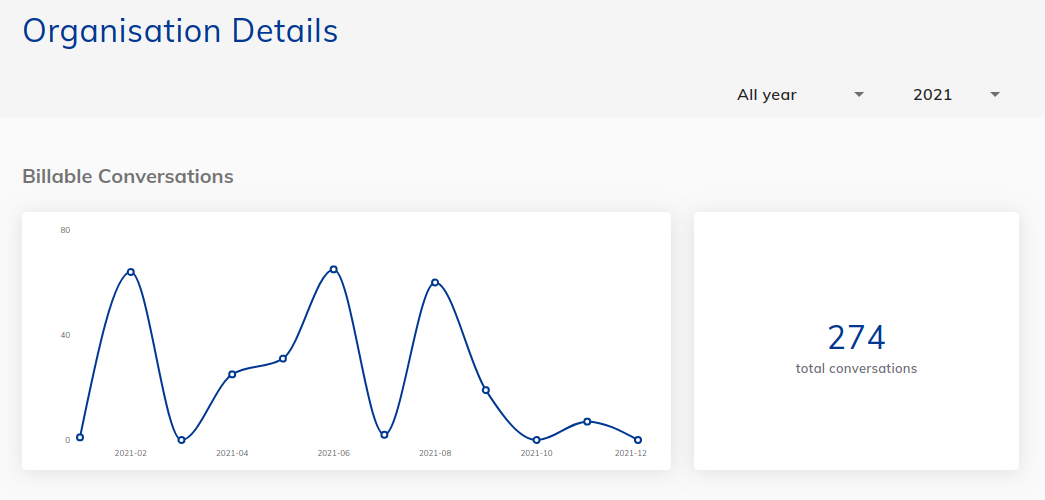
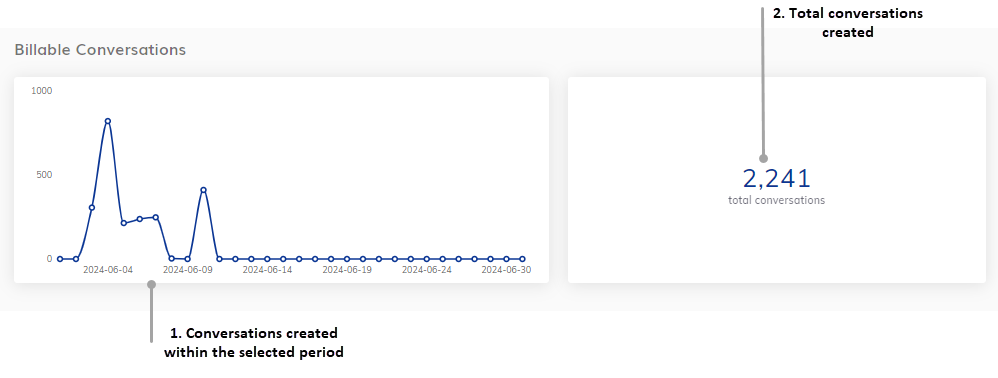
polishing + added a redirect

diff --git a/docs/ai/empower/knowledge-ai/activate.md b/docs/ai/empower/knowledge-ai/activate.md
@@ -1,57 +1,58 @@
 ---
 title: "Activate Knowledge AI"
 slug: "activate-knowledge"
-description: "Made a few steps before activating the Knowledge AI feature."
+description: "Made a few steps before activating the Knowledge AI feature: apply for a license, allocate quotas, and activate feature flags."
 hidden: false
 ---
 
 # Activate Knowledge AI
 
-Before using Knowledge AI, make sure that you perform the following steps:
+[![Version badge](https://img.shields.io/badge/Added in-v4.78-blue.svg)](../../../release-notes/4.78.md)
+
+Before using Knowledge AI, make sure that you complete the following steps:
 
 1. [Apply for a license](#apply-for-a-license)
 2. [Allocate quotas](#allocate-quotas)
 3. [Activate feature flags](#activate-feature-flags)
-4. [Monitor Knowledge AI metrics](#view-metrics)
+4. [Familiarize yourself with how to monitor Knowledge AI metrics](#view-metrics)
 
 ## Apply for a License
 
-To use the Knowledge AI feature, you need to get a license from Cognigy.
-This license lets use the feature for your organization and limits how many chunks you can use.
-Once the quota is exceeded, you won't be able to create new Knowledge AI resources or edit existing ones.
+To use the Knowledge AI feature, you must obtain a license from Cognigy. 
+This license allows you to use the feature for your organization and also places limits on how many Chunks you can use. 
+If the quota is exceeded, you will not be able to create new Knowledge AI resources or edit existing ones.
 
 A user with `admin` rights needs to add the license to your installation.
-If you are using a shared SaaS environment, contact Cognigy technical support to add the license.
+If you are using a shared SaaS environment, contact [Cognigy technical support](../../../help/get-help.md) to add the license.
 
 ## Allocate Quotas
 
-After adding the license, you must allocate a quota for the number of Knowledge Chunks according to the license.
-You can use the quota for one organization or divide it among multiple organizations.
-If you have multiple organizations, make sure to share the quota between them without exceeding your license quota.
+After adding the license, you need to allocate a quota for the number of Knowledge Chunks based on the license. You can allocate the quota to one organization or divide it among multiple organizations. 
+If you have multiple organizations, ensure that you share the quota between them without exceeding your license quota.
 
 ### Knowledge Chunks and Queries
 
 Knowledge Chunks and Knowledge Queries are billable units:
 
-- **Number of Knowledge Chunks**. Cognigy.AI determines how many chunks can be consumed when creating Knowledge Sources. If the quota is exceeded, you cannot edit existing Knowledge Sources or create new ones.
-- **Number of Knowledge Queries**. Cognigy.AI counts how many queries were performed to retrieve a relevant Chunk of knowledge. The number of Knowledge Queries is unlimited. You'll only be billed based on the queries you have performed. The following Nodes impact the query counts:
+- **Number of Knowledge Chunks**. Cognigy.AI determines the number of Chunks that can be consumed when creating Knowledge Sources. If the quota is exceeded, you will not be able to edit existing Knowledge Sources or create new ones.
+- **Number of Knowledge Queries**. Cognigy.AI counts the number of Queries performed to retrieve relevant Knowledge Chunks. The number of Knowledge Queries is unlimited. However, you will be billed based on the Queries you have performed. The following Nodes impact the query counts:
     - [Search, Extract, Output](../../build/node-reference/other-nodes/search-extract-output.md). Each execution of this Node increases the counter by one unit.
-    - [Copilot: Knowledge Tile Node](../../build/node-reference/ai-copilot/knowledge-tile.md). Each execution of this Node increases the counter by one unit. The execution happens when a suggested answer is provided or when a human agent retrieves information via the Search field, the counter increases by one unit.
+    - [Copilot: Knowledge Tile Node](../../build/node-reference/ai-copilot/knowledge-tile.md). Each execution of this Node also increases the query count by one unit. The execution occurs when a suggested answer is provided or when a human agent retrieves information via the Search field.
 
 ### Set Quotas
 
 Only a user with `admin` rights for the management-ui can set quotas via the management-ui API.
-If you use a shared SaaS environment, contact Cognigy technical support to configure quotas.
+If you use a shared SaaS environment, contact [Cognigy technical support](../../../help/get-help.md) to configure quotas.
 
 To set a quota using the management-ui API, follow these steps:
 
-1. Open the Cognigy.AI API and go to the **AUTHENTICATION > HTTP Basic**.
-2. Enter the login and password you use for the management-ui authorization and click **SET**.
+1. Open the Cognigy.AI API and navigate to the **AUTHENTICATION > HTTP Basic**.
+2. Enter the login and password you use for the management-ui authorization, then click **SET**.
 3. Select the organization to which you want to apply a quota:
 
     === "New Organization"
          To set the quota for a new organization, use the API [POST /management/v2.0/organisations](https://api-dev.cognigy.ai/openapi#post-/management/v2.0/organisations) request.
-         Send the request with a JSON body. In the JSON body, specify a unique name for the new organization and the maximum number of knowledge chunks in the `quotaMaxKnowledgeChunks` parameter.
+         Send the request with a JSON body. In the JSON body, specify a unique name for the new organization and the maximum number of Knowledge Chunks in the `quotaMaxKnowledgeChunks` parameter.
 
          ```bash
          POST /management/v2.0/organisations
@@ -66,7 +67,7 @@ To set a quota using the management-ui API, follow these steps:
 
     === "Existing Organization"
          To set the quota for the existing organization, use the API [PATCH /management/v2.0/organisations/{organisationId}](https://api-trial.cognigy.ai/openapi#patch-/management/v2.0/organisations/-organisationId-) request. 
-         Send the request with the `organisationId` parameter in the path and a JSON body. In the JSON body, specify the maximum number of chunks using the `quotaMaxKnowledgeChunks` parameter. You can find `organisationId` in the management-ui on the **Organisations** page in the **ID** column next to the organization name.
+         Send the request with the `organisationId` parameter in the path and a JSON body. In the JSON body, specify the maximum number of Chunks using the `quotaMaxKnowledgeChunks` parameter. You can find `organisationId` in the management-ui on the **Organisations** page in the **ID** column next to the organization name.
         
          ```bash
          PATCH /management/v2.0/organisations/{organisationId}

diff --git a/docs/ai/administer/access/admin-center.md b/docs/ai/administer/access/admin-center.md
@@ -1,14 +1,19 @@
 ---
 title: "Admin Center" 
-slug: "admin-center" 
+slug: "admin-center"
+description: "The Admin Center in Cognigy.AI enables users with admin rights to view detailed analytics for billable conversations and Knowledge AI. The Admin Center offers platform administrators a comprehensive report on resource consumption across all organizational projects."
 hidden: false 
 ---
 
 # Admin Center
 
-The **Admin Center** page includes an analytics overview section labeled **Billable Conversations**,
-offering platform administrators a comprehensive report on the volume of conversations
-that have taken place among all agents in the organization.
+[![Version badge](https://img.shields.io/badge/Updated in-v4.78-blue.svg)](../../../release-notes/4.78.md)
+
+The **Admin Center** allows Cognigy.AI users with `admin` rights
+to view analytics for billable conversations and Knowledge AI. 
+The Admin Center provides platform administrators with a comprehensive report on the volume of consumed resources across all Projects in the organization.
+
+On the **Admin Center* page, admins can activate Live Agent and Voice Gateway products, as well as delete organizations.
 
 To access the **Admin Center** page, 
 click **User Menu** in the upper-right corner of any Cognigy.AI page and then select **Admin Center**.
@@ -17,8 +22,13 @@ click **User Menu** in the upper-right corner of any Cognigy.AI page and then se
 
 The chart shows a number of [billable conversations](../billing.md) for the organization.
 
+The Billable Conversations metrics include the following:
+
+1. The number of billable conversations created within the selected time frame.
+2. The total number of billable conversations created.
+
 <figure>
-  <img class="image-center" src="../../../../_assets/ai/administer/access/billable-conversations.png" width="70%" />
+  <img class="image-center" src="../../../../_assets/ai/administer/access/billable-conversations.png" width="100%" />
 </figure>
 
 ## Knowledge AI
@@ -54,7 +64,7 @@ This feature will delete all the data from your organization.
 Before the organization deletion, you need to set up:
 
 - A valid system administrator emails are set in the environment variable `SYS_ADMINISTRATOR_EMAIL` of the `values.yaml` file. For example: `SYS_ADMINISTRATOR_EMAIL: "admin1@domain.com,admin2@domain.com"`. Your administrators will receive a notification at these email addresses regarding the organization deletion request. By following the link provided in the email, the administrators can proceed with the organization deletion.
-- The Cognigy.AI [Management UI](../access/organization-details.md) is installed, and its path set in the environment variable `MANAGEMENTUI_BASE_URL_WITH_PROTOCOL` of the `values.yaml` file. For example: `MANAGEMENTUI_BASE_URL_WITH_PROTOCOL: http://management-ui`.
+- The Cognigy.AI [Management UI](../access/admin-center.md) is installed, and its path set in the environment variable `MANAGEMENTUI_BASE_URL_WITH_PROTOCOL` of the `values.yaml` file. For example: `MANAGEMENTUI_BASE_URL_WITH_PROTOCOL: http://management-ui`.
 
 ### Deletion Process for an Organization
 

diff --git a/docs/_includes/ai/administer/access/knowledge-ai-metrics.md b/docs/_includes/ai/administer/access/knowledge-ai-metrics.md
@@ -3,4 +3,4 @@ The Knowledge AI metrics include the following:
 1. The number of Knowledge queries performed within the selected time frame.
 2. The total number of Knowledge queries performed.
 3. The number of Knowledge Chunks currently available in the organization.
-4. The number of chunks allocated to the organization under the license. The specified value depends on the number set by the admin for your organization. This value can be equal to the initial value provided by Cognigy within the license, or it can be less than the initial value if the license is divided among several organizations.
+4. The number of chunks allocated to the organization under the license. The specified value depends on the number set by the administrator for your organization. This value can be equal to the initial value provided by Cognigy within the license, or it can be less than the initial value if the license is divided among several organizations.

diff --git a/docs/ai/installation/pre-installation-checklist.md b/docs/ai/installation/pre-installation-checklist.md
@@ -24,7 +24,7 @@ Before proceeding with your on-prem installation with or without installation su
 
 8. Kubernetes worker nodes are distributed across 3 Availability Zones (AZ) for high availability setup if possible.
 
-9. Cognigy.AI licence key is available.
+9. Cognigy.AI license key is available.
 
 10. Cognigy Container image registry credentials are known.
 
